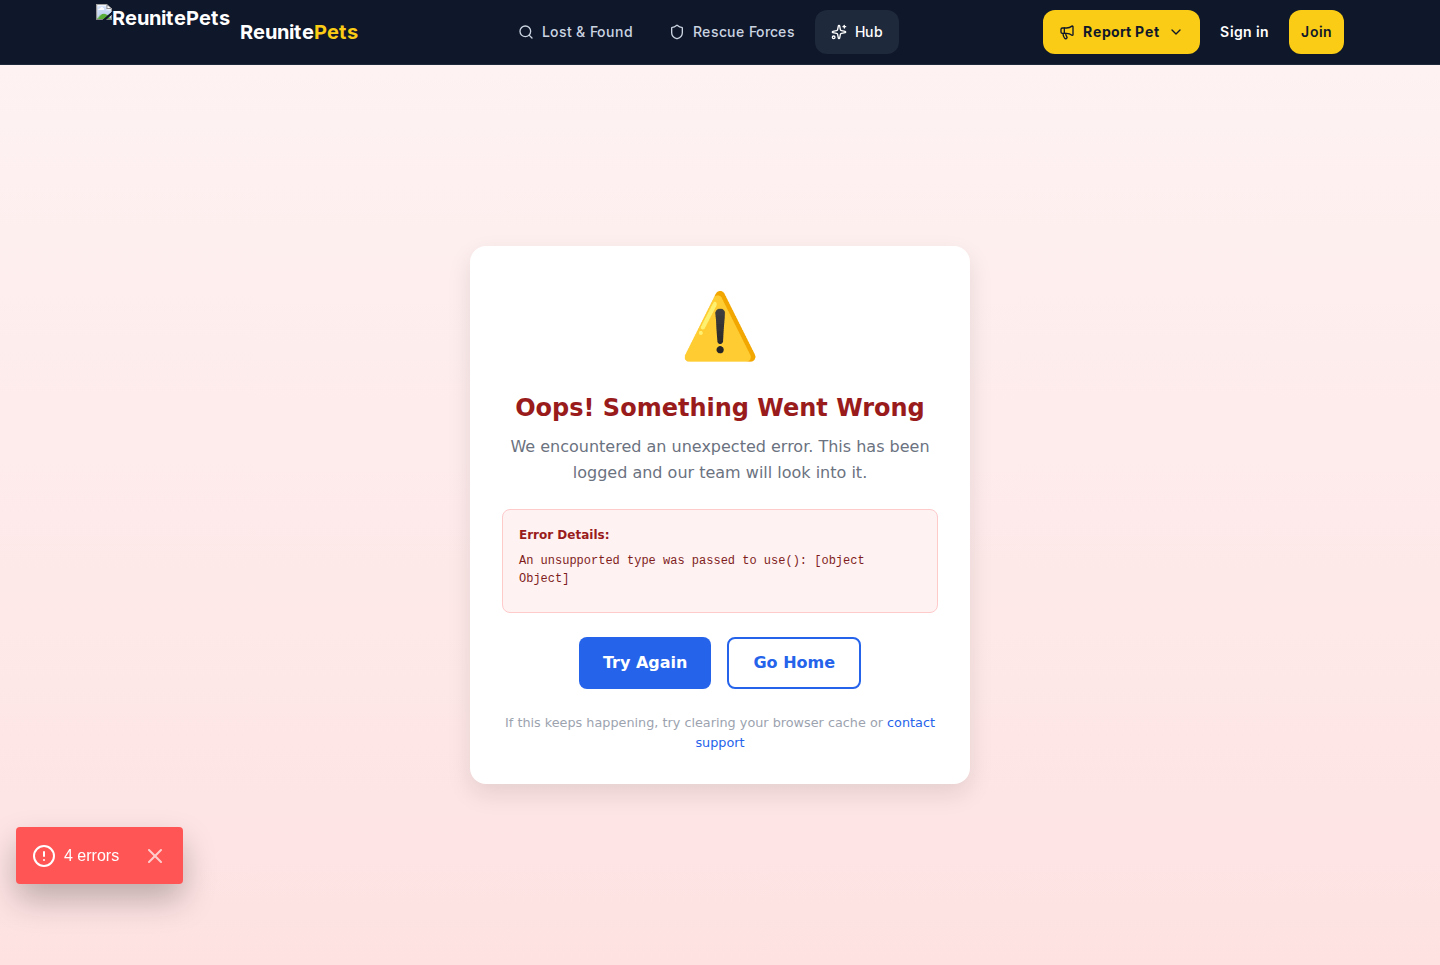
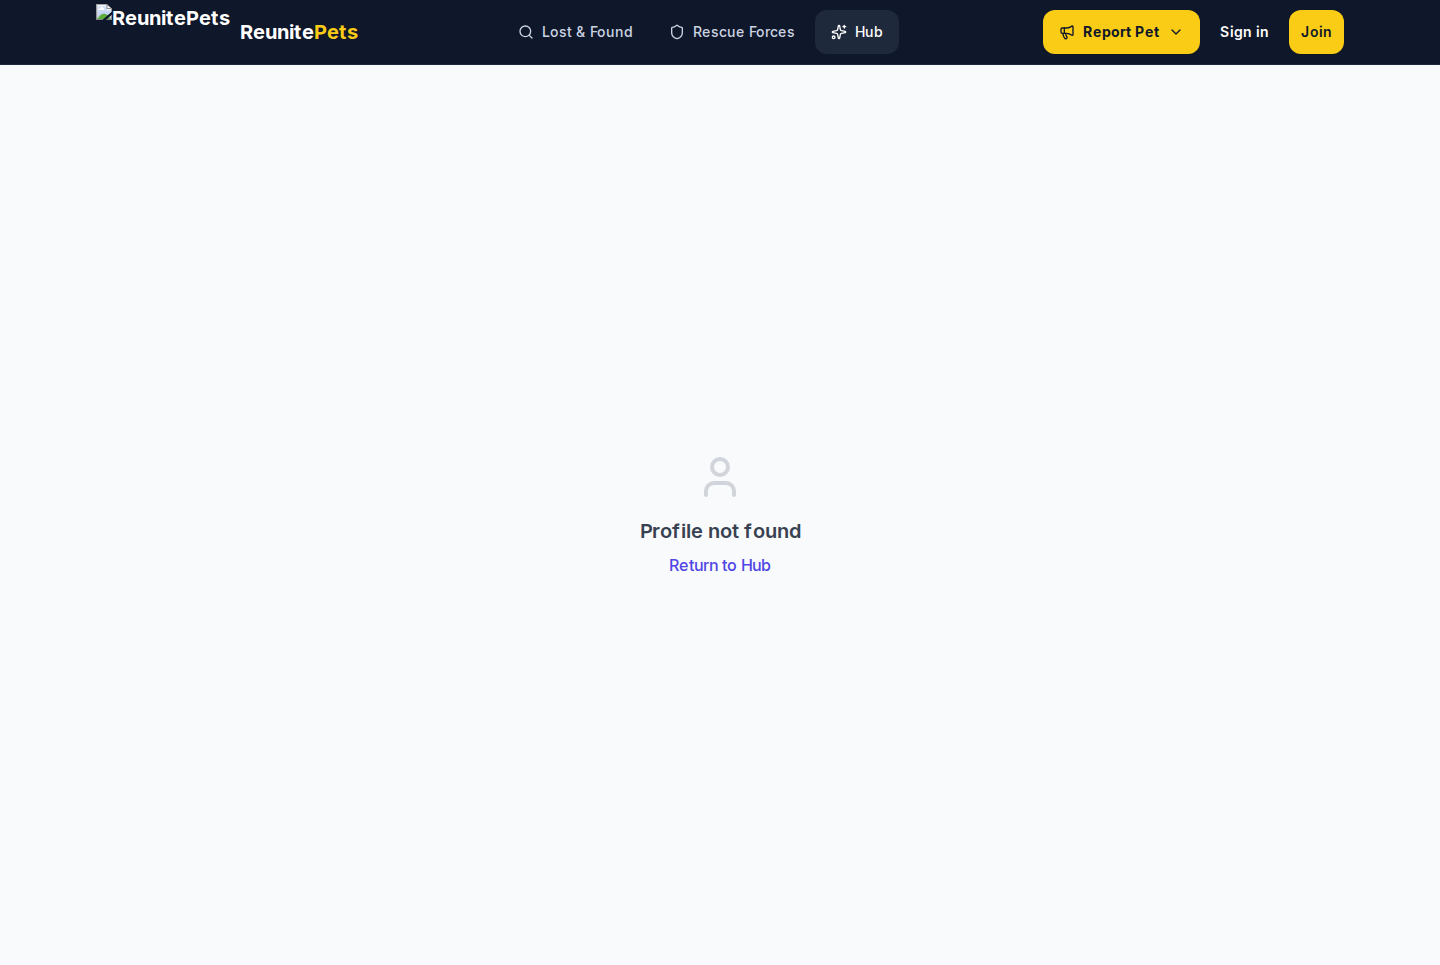
Repair the hub profile API's schema drift
/api/hub/profile/[id] 500'd on every request — it was written against
relations the schema never had. UserBadge→Badge and
ShelterProfile→Shelter are scalar ids (no Prisma relations), so the
include:{...} calls threw; forum models soft-hide via isHidden, not
isDeleted; ForumPost has no author relation. Joins are now done
manually and all three tabs (posts/threads/reactions) return 200.

Gallery screenshots of the hub pages refreshed: they now show content
instead of the error boundary.

https://claude.ai/code/session_01LRTBVwbUKeVSrEkkitVL9y

diff --git a/frontend/app/api/hub/profile/[id]/route.js b/frontend/app/api/hub/profile/[id]/route.js
@@ -45,24 +45,30 @@ export async function GET(request, { params }) {
       });
     }
 
-    // Get badges
+    // Get badges. UserBadge has no Prisma relation to Badge (scalar badgeId
+    // only), so join manually — include:{badge} throws at runtime.
     const userBadges = await prisma.userBadge.findMany({
       where: { userId },
-      include: {
-        badge: true,
-      },
-      orderBy: { earnedAt: 'desc' },
+      orderBy: { createdAt: 'desc' },
     });
+    const badgeRows = userBadges.length
+      ? await prisma.badge.findMany({
+          where: { id: { in: userBadges.map((ub) => ub.badgeId) } },
+        })
+      : [];
+    const badgeById = new Map(badgeRows.map((b) => [b.id, b]));
 
-    // Check if user has shelter profile
+    // Check if user has shelter profile. ShelterProfile's shelterId is a
+    // plain scalar (no relation), so resolve the Shelter separately.
     const shelterProfile = await prisma.shelterProfile.findFirst({
       where: { claimedById: userId },
-      include: {
-        shelter: {
-          select: { name: true, city: true, state: true },
-        },
-      },
     });
+    const claimedShelter = shelterProfile
+      ? await prisma.shelter.findUnique({
+          where: { id: shelterProfile.shelterId },
+          select: { name: true, city: true, state: true },
+        })
+      : null;
 
     // Get activity based on tab
     let activity = [];
@@ -70,11 +76,11 @@ export async function GET(request, { params }) {
 
     if (tab === 'threads') {
       totalCount = await prisma.forumThread.count({
-        where: { authorId: userId, isDeleted: false },
+        where: { authorId: userId, isHidden: false },
       });
 
       const threads = await prisma.forumThread.findMany({
-        where: { authorId: userId, isDeleted: false },
+        where: { authorId: userId, isHidden: false },
         orderBy: { createdAt: 'desc' },
         skip,
         take: limit,
@@ -115,13 +121,20 @@ export async function GET(request, { params }) {
               thread: {
                 select: { title: true, slug: true },
               },
-              author: {
-                select: { firstName: true },
-              },
             },
           },
         },
       });
+
+      // ForumPost.authorId is a plain scalar; resolve names separately
+      const reactionAuthorIds = [...new Set(reactions.map((r) => r.post?.authorId).filter(Boolean))];
+      const reactionAuthors = reactionAuthorIds.length
+        ? await prisma.user.findMany({
+            where: { id: { in: reactionAuthorIds } },
+            select: { id: true, firstName: true },
+          })
+        : [];
+      const authorNameById = new Map(reactionAuthors.map((u) => [u.id, u.firstName]));
 
       activity = reactions.map(r => ({
         type: 'reaction',
@@ -130,7 +143,7 @@ export async function GET(request, { params }) {
         post: {
           id: r.post.id,
           content: r.post.content.slice(0, 100) + (r.post.content.length > 100 ? '...' : ''),
-          author: r.post.author?.firstName,
+          author: authorNameById.get(r.post.authorId),
           thread: r.post.thread,
         },
         createdAt: r.createdAt,
@@ -138,11 +151,11 @@ export async function GET(request, { params }) {
     } else {
       // Default: posts
       totalCount = await prisma.forumPost.count({
-        where: { authorId: userId, isDeleted: false },
+        where: { authorId: userId, isHidden: false },
       });
 
       const posts = await prisma.forumPost.findMany({
-        where: { authorId: userId, isDeleted: false },
+        where: { authorId: userId, isHidden: false },
         orderBy: { createdAt: 'desc' },
         skip,
         take: limit,
@@ -168,10 +181,10 @@ export async function GET(request, { params }) {
     // Get stats
     const stats = {
       threadsCount: await prisma.forumThread.count({
-        where: { authorId: userId, isDeleted: false },
+        where: { authorId: userId, isHidden: false },
       }),
       postsCount: await prisma.forumPost.count({
-        where: { authorId: userId, isDeleted: false },
+        where: { authorId: userId, isHidden: false },
       }),
       helpfulReceived: forumProfile.helpfulReceived || 0,
       solutionsCount: forumProfile.solutionsCount || 0,
@@ -203,14 +216,19 @@ export async function GET(request, { params }) {
         trustLevelLabel: trustLevelLabels[forumProfile.trustLevel] || 'Member',
         reputation: forumProfile.reputation,
         isVerifiedShelter: forumProfile.isVerifiedShelter,
-        shelter: shelterProfile?.shelter,
-        badges: userBadges.map(ub => ({
-          id: ub.badge.id,
-          name: ub.badge.name,
-          icon: ub.badge.icon,
-          description: ub.badge.description,
-          earnedAt: ub.earnedAt,
-        })),
+        shelter: claimedShelter,
+        badges: userBadges
+          .filter((ub) => badgeById.has(ub.badgeId))
+          .map((ub) => {
+            const badge = badgeById.get(ub.badgeId);
+            return {
+              id: badge.id,
+              name: badge.name,
+              icon: badge.icon,
+              description: badge.description,
+              earnedAt: ub.createdAt,
+            };
+          }),
         stats,
       },
       activity,
